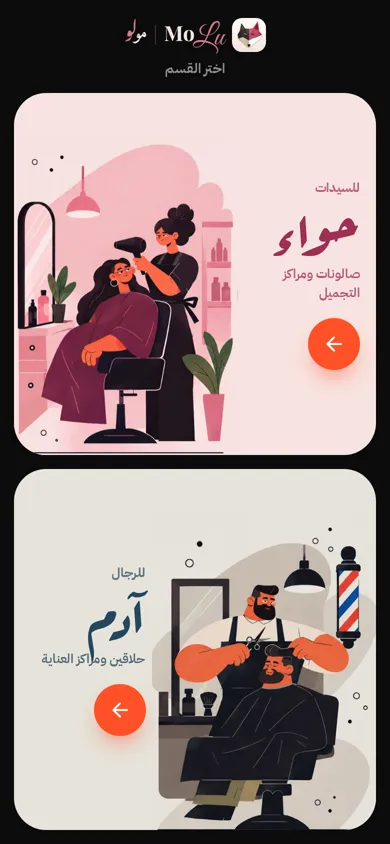
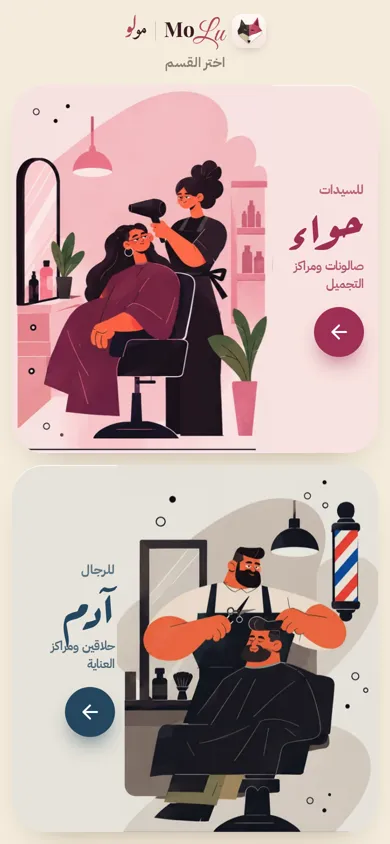
MoLu gate: cream page, bigger scenes, section-coloured buttons
Page is now cream (#F4ECDD) with the logo in its light colours; scenes take
up to 74% of the card; the arrow buttons use each section's ink (rose for
حواء, deep blue for آدم) instead of orange.

Claude-Session: https://claude.ai/code/session_01YDDWUymGc1xUJNLzFw3adr

diff --git a/molu/css/gate.css b/molu/css/gate.css
@@ -5,54 +5,56 @@
 ::view-transition-old(root), ::view-transition-new(root) { animation-duration: .16s; }
 :root {
   --ease: cubic-bezier(.22, 1, .36, 1);
+  --page: #F4ECDD;   /* cream page, a shade deeper than the artwork's cream so the cards stand out */
   /* card colour = artwork cream (250,246,226) × tint, so image and card meet without an edge */
   --eve-bg: #F8E3E0; --eve-tint: #FDEBFD; --eve-ink: #9E2F55;
   --adam-bg: #E6E3DA; --adam-tint: #EBEBF6; --adam-ink: #24475F;
 }
 * { box-sizing: border-box; }
-html, body { margin: 0; background: #0B0B0C; }
-body { color: #fff; font-family: 'IBM Plex Sans Arabic', system-ui, sans-serif; -webkit-font-smoothing: antialiased; overscroll-behavior: none; }
+html, body { margin: 0; background: var(--page); }
+body { color: #2D2D2D; font-family: 'IBM Plex Sans Arabic', system-ui, sans-serif; -webkit-font-smoothing: antialiased; overscroll-behavior: none; }
 a { color: inherit; text-decoration: none; }
-.gx { height: 100dvh; min-height: 560px; display: flex; flex-direction: column; gap: 14px; padding: max(14px, env(safe-area-inset-top)) 14px max(14px, env(safe-area-inset-bottom)); background: #0B0B0C; }
+.gx { height: 100dvh; min-height: 560px; display: flex; flex-direction: column; gap: 12px; padding: max(12px, env(safe-area-inset-top)) 12px max(12px, env(safe-area-inset-bottom)); background: var(--page); }
 
-.gx-head { display: grid; justify-items: center; gap: 6px; padding-top: 4px; animation: fade .4s var(--ease) both; }
-.gx-head p { margin: 0; font: 600 .85rem 'IBM Plex Sans Arabic', sans-serif; color: rgba(255, 255, 255, .55); }
+.gx-head { display: grid; justify-items: center; gap: 4px; padding-top: 2px; animation: fade .4s var(--ease) both; }
+.gx-head p { margin: 0; font: 600 .85rem 'IBM Plex Sans Arabic', sans-serif; color: #8A7F70; }
 .molu-logo { display: inline-flex; align-items: center; gap: 8px; }
-.logo-mark { width: 34px; height: 34px; border-radius: 10px; flex: none; }
+.logo-mark { width: 34px; height: 34px; border-radius: 10px; flex: none; box-shadow: 0 4px 12px -6px rgba(90, 42, 51, .45); }
 .logo-latin { display: inline-flex; align-items: baseline; line-height: 1; }
-.logo-latin .mo { font: 700 1.3rem/1 'MoLu Mo', 'Playfair Display', Georgia, serif; color: #F4E6E0; }
-.logo-latin .lu { display: inline-block; font: 400 1.8rem/1 'MoLu Lu', 'Great Vibes', cursive; color: #D7798A; margin-left: -.08em; transform: translateY(.12em); }
-.logo-sep { width: 1px; height: 20px; background: rgba(255, 255, 255, .2); }
+.logo-latin .mo { font: 700 1.3rem/1 'MoLu Mo', 'Playfair Display', Georgia, serif; color: #3A1C24; }
+.logo-latin .lu { display: inline-block; font: 400 1.8rem/1 'MoLu Lu', 'Great Vibes', cursive; color: #B0485C; margin-left: -.08em; transform: translateY(.12em); }
+.logo-sep { width: 1px; height: 20px; background: #D9CDB9; }
 .logo-ar { display: inline-flex; align-items: baseline; font-size: 1.15rem; line-height: 1; }
-.logo-ar .mo { font-family: 'MoLu Naskh', 'Amiri', serif; font-weight: 700; color: #F4E6E0; }
-.logo-ar .lu { display: inline-block; font-family: 'MoLu Nastaliq', 'Gulzar', serif; font-size: 1.35em; color: #D7798A; margin-inline-start: -.12em; transform: translateY(.12em); }
+.logo-ar .mo { font-family: 'MoLu Naskh', 'Amiri', serif; font-weight: 700; color: #3A1C24; }
+.logo-ar .lu { display: inline-block; font-family: 'MoLu Nastaliq', 'Gulzar', serif; font-size: 1.35em; color: #B0485C; margin-inline-start: -.12em; transform: translateY(.12em); }
 
-.gx-doors { flex: 1; min-height: 0; display: grid; grid-template-rows: 1fr 1fr; gap: 14px; }
+.gx-doors { flex: 1; min-height: 0; display: grid; grid-template-rows: 1fr 1fr; gap: 12px; }
 @media (min-width: 820px) { .gx-doors { grid-template-rows: none; grid-template-columns: 1fr 1fr; gap: 22px; } .gx { padding-inline: 28px; } }
 
 .gd { --bg: var(--eve-bg); --tint: var(--eve-tint); --ink: var(--eve-ink);
   position: relative; isolation: isolate; display: flex; align-items: stretch; min-height: 0; overflow: hidden; border-radius: 32px; background: var(--bg); container-type: size;
+  box-shadow: 0 18px 40px -26px rgba(90, 60, 30, .55), 0 1px 0 rgba(255, 255, 255, .7) inset;
   -webkit-tap-highlight-color: transparent; animation: up .45s var(--ease) both; transition: transform .2s cubic-bezier(.3, 0, .2, 1); }
 .gd.eve { flex-direction: row-reverse; }   /* حواء's scene on the left, آدم's on the right — as in the picture */
 .gd.adam { --bg: var(--adam-bg); --tint: var(--adam-tint); --ink: var(--adam-ink); animation-delay: .08s; }
 .gd:active { transform: scale(.975); }
 @media (hover: hover) { .gd:hover { transform: translateY(-3px); } }
-.gd:focus-visible { outline: 3px solid #fff; outline-offset: 3px; }
+.gd:focus-visible { outline: 3px solid var(--ink); outline-offset: 3px; }
 
 /* the box always has the picture's own shape (full height, or 62% of the width if that's smaller), so nothing is cropped or letterboxed */
-.gd-scene { position: relative; flex: none; align-self: flex-end; width: min(62cqw, 71cqh); aspect-ratio: 560 / 788; background: var(--tint); }
+.gd-scene { position: relative; flex: none; align-self: flex-end; width: min(74cqw, 71cqh); aspect-ratio: 560 / 788; background: var(--tint); }
 .gd-scene img { position: absolute; inset: 0; width: 100%; height: 100%; object-fit: cover; mix-blend-mode: multiply; transform-origin: 50% 100%;
   animation: settle .6s .1s var(--ease) both; }
 .gd.adam .gd-scene img { animation-delay: .18s; }
 
-.gd-txt { flex: 1; min-width: 0; display: flex; flex-direction: column; justify-content: center; padding: 18px 6px 18px 16px; color: var(--ink); animation: fade .45s .2s var(--ease) both; }
-.gd.eve .gd-txt { padding: 18px 16px 18px 6px; }
+.gd-txt { flex: 1; min-width: 0; display: flex; flex-direction: column; justify-content: center; padding: 16px 2px 16px 14px; color: var(--ink); animation: fade .45s .2s var(--ease) both; }
+.gd.eve .gd-txt { padding: 16px 14px 16px 2px; }
 .gd.adam .gd-txt { animation-delay: .28s; }
 .gd-txt small { font: 700 .82rem 'IBM Plex Sans Arabic', sans-serif; opacity: .7; }
-.gd-txt b { font: 700 clamp(3rem, 15vw, 5.2rem)/1.05 'Aref Ruqaa', serif; padding-bottom: .22em; margin-bottom: -.12em; }
-.gd-txt > span:not(.gd-go) { font: 600 .82rem/1.45 'IBM Plex Sans Arabic', sans-serif; opacity: .78; }
-.gd-go { margin-top: 16px; display: grid; place-items: center; width: 52px; height: 52px; border-radius: 50%; background: #FF5028; color: #fff;
-  box-shadow: 0 12px 24px -10px rgba(255, 80, 40, .85); transition: transform .2s var(--ease); }
+.gd-txt b { font: 700 clamp(2.7rem, 13vw, 5rem)/1.05 'Aref Ruqaa', serif; padding-bottom: .22em; margin-bottom: -.12em; }
+.gd-txt > span:not(.gd-go) { font: 600 .78rem/1.45 'IBM Plex Sans Arabic', sans-serif; opacity: .78; }
+.gd-go { margin-top: 14px; display: grid; place-items: center; width: 50px; height: 50px; border-radius: 50%; background: var(--ink); color: #fff;
+  box-shadow: 0 12px 24px -10px var(--ink); transition: transform .2s var(--ease); }
 .gd:hover .gd-go, .gd:active .gd-go { transform: translateX(-4px); }
 
 @keyframes up { from { opacity: 0; transform: translateY(16px); } }

diff --git a/molu/index.html b/molu/index.html
@@ -3,7 +3,7 @@
 <head>
 <meta charset="utf-8">
 <meta name="viewport" content="width=device-width, initial-scale=1, viewport-fit=cover">
-<meta name="theme-color" content="#0B0B0C">
+<meta name="theme-color" content="#F4ECDD">
 <title>مولو — حواء وآدم</title>
 <meta name="description" content="احجز في أقرب صالون نسائي أو حلاق رجالي بدقيقة واحدة.">
 <link rel="preload" href="img/eve-560.webp" as="image" fetchpriority="high">
